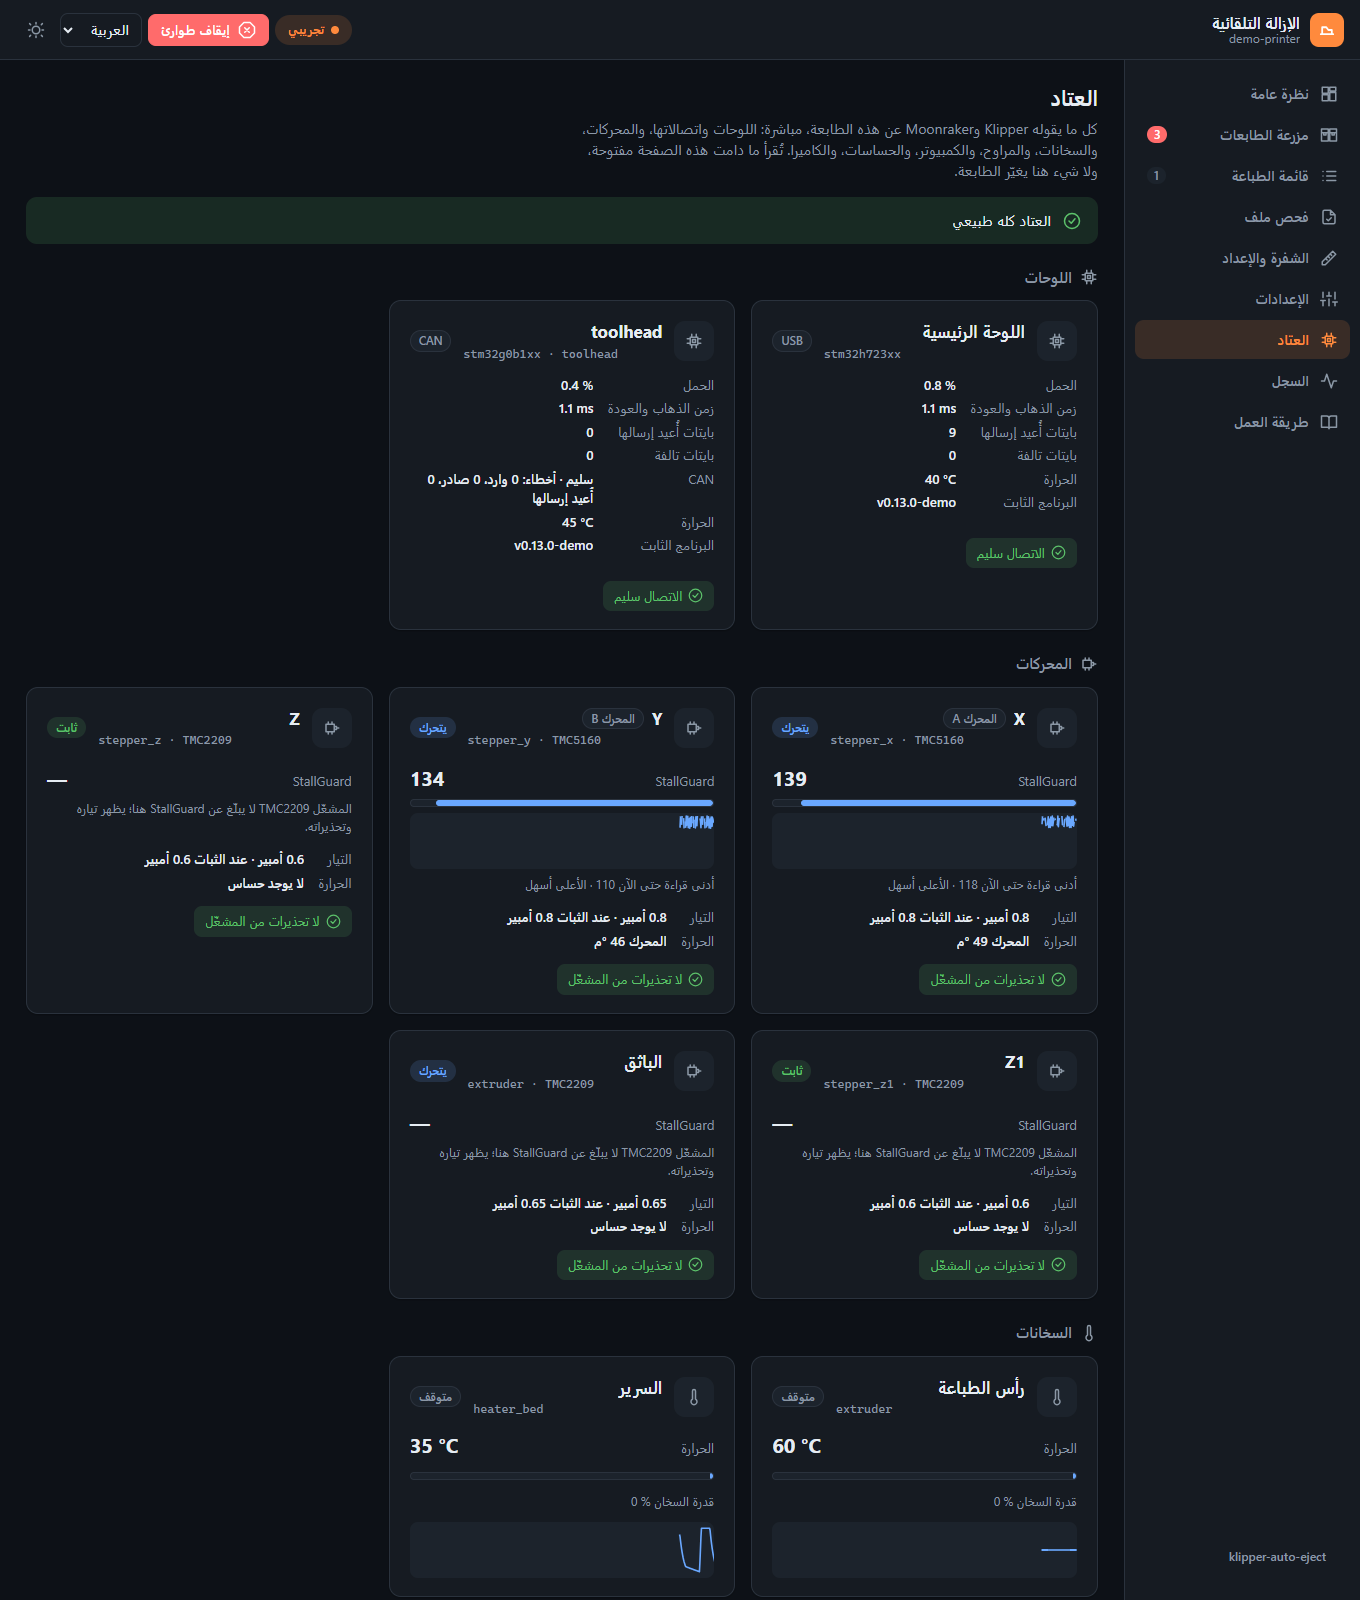
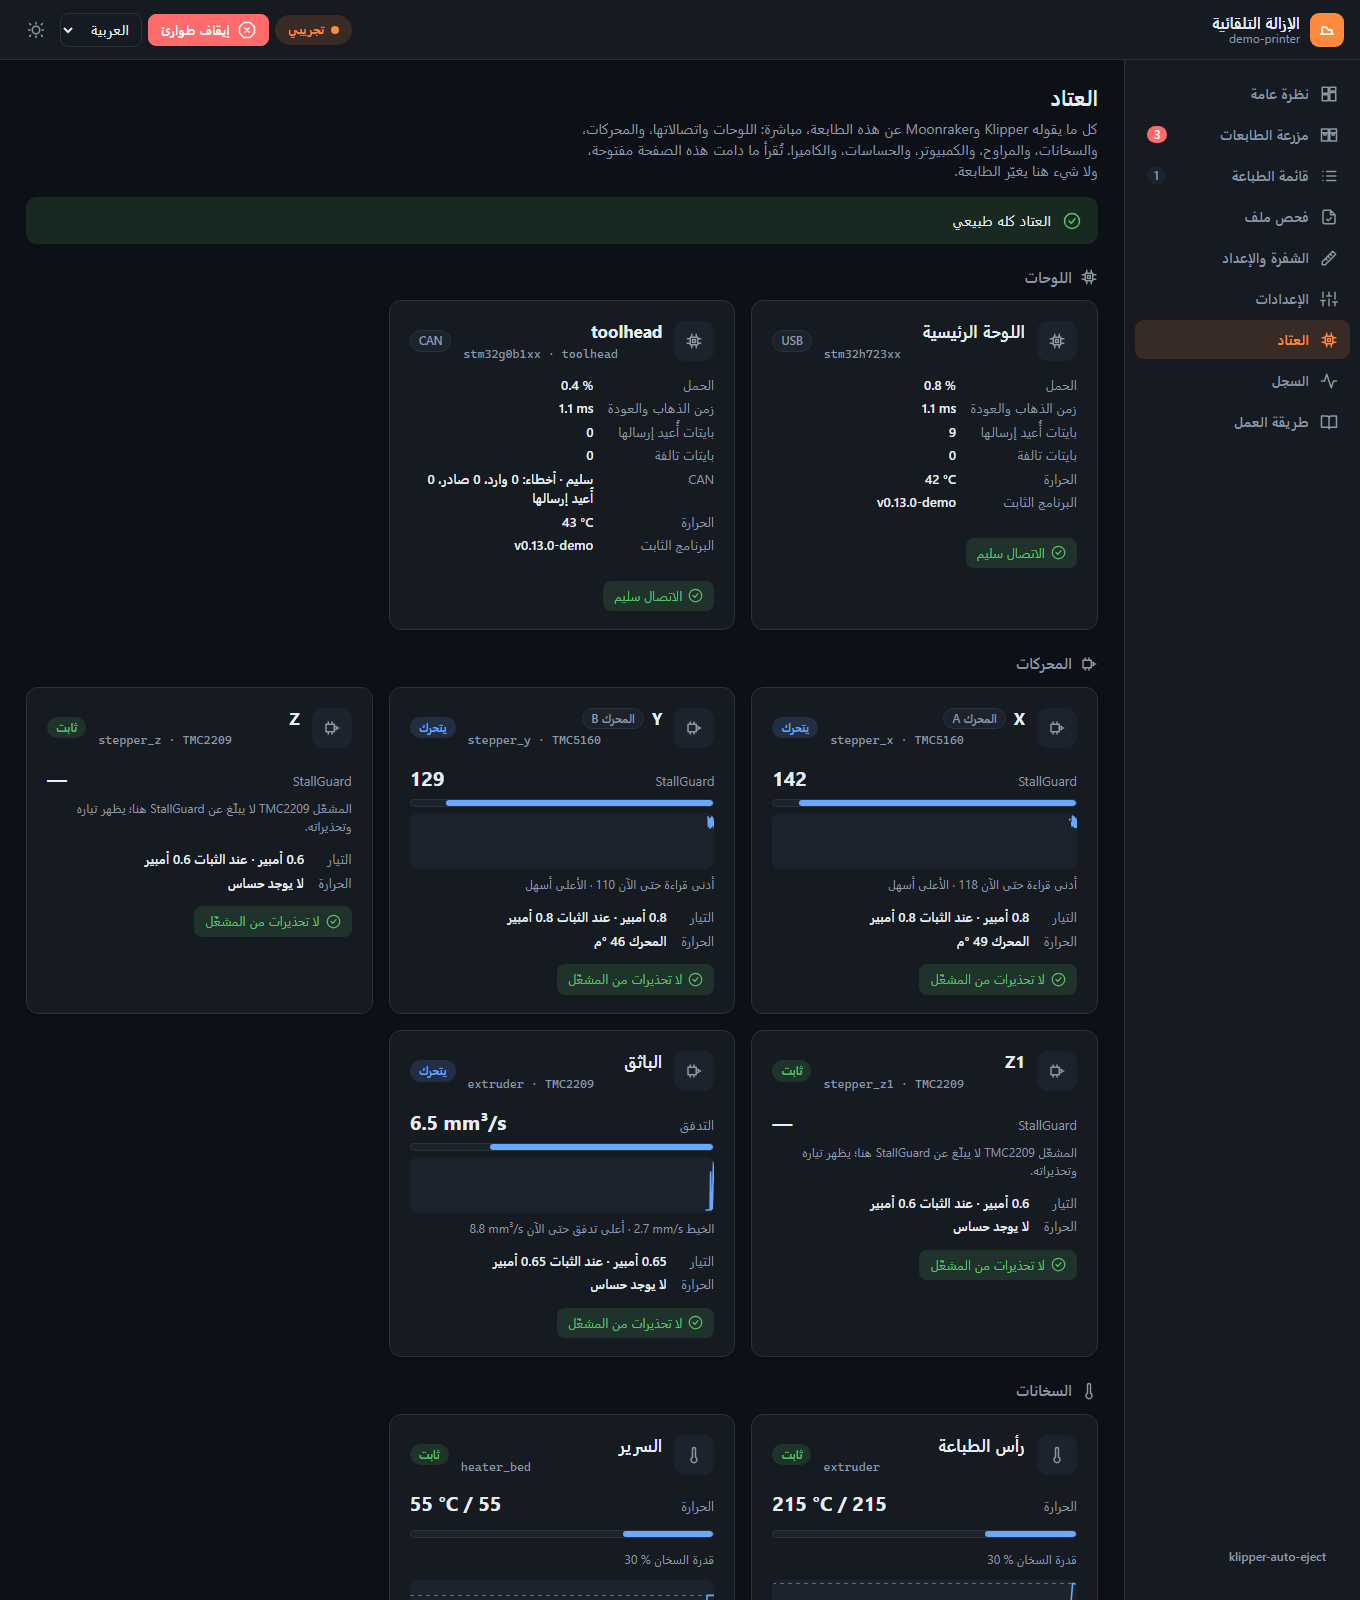
Docs: Hardware pictures with the extruder's flow
The pictures were taken before the extruder showed its flow. The demo
gets ?demo=print, which starts the next print by itself, so a picture can
catch the extruder at work.

diff --git a/web/demo.js b/web/demo.js
@@ -212,10 +212,10 @@
         this.open = true;
         setInterval(() => this.tick(), 200);
         setTimeout(() => this.emit("open"), 300);
-        // ?demo=eject starts clearing the bed by itself
-        if (new URLSearchParams(location.search).get("demo") === "eject") {
-          setTimeout(() => this.runGcode("AUTO_EJECT").catch(() => {}), 1500);
-        }
+        // ?demo=eject starts clearing the bed by itself, ?demo=print the next print
+        const mode = new URLSearchParams(location.search).get("demo");
+        if (mode === "eject") setTimeout(() => this.runGcode("AUTO_EJECT").catch(() => {}), 1500);
+        if (mode === "print") setTimeout(() => this.runGcode("AUTO_EJECT_CLEAR").catch(() => {}), 500);
       });
   };
 

diff --git a/docs/ar/web-page.md b/docs/ar/web-page.md
@@ -226,6 +226,7 @@ python3 -m http.server 8000
 | | |
 |---|---|
 | `?demo=eject` | تبدأ الطابعة التجريبية تفريغ السرير وحدها |
+| `?demo=print` | تبدأ الطابعة التجريبية الطباعة التالية وحدها |
 | `&lang=ar`، `&lang=en` | اللغة |
 | `&theme=dark`، `&theme=light` | الوضع الداكن أو الفاتح |
 | `?printer=http://printer.local:7125` | التحكم في طابعة حقيقية من الكمبيوتر. يجب أن يكون عنوان الكمبيوتر في `cors_domains` داخل `moonraker.conf` على تلك الطابعة. |

diff --git a/docs/web-page.md b/docs/web-page.md
@@ -234,6 +234,7 @@ Then open `http://localhost:8000/web/?demo`. Useful additions to the address:
 | | |
 |---|---|
 | `?demo=eject` | The demo starts clearing the bed by itself |
+| `?demo=print` | The demo starts the next print by itself |
 | `&lang=ar`, `&lang=en` | Language |
 | `&theme=dark`, `&theme=light` | Theme |
 | `?printer=http://printer.local:7125` | Talk to a real printer from the computer. Its `moonraker.conf` needs the computer's address in `cors_domains`. |
